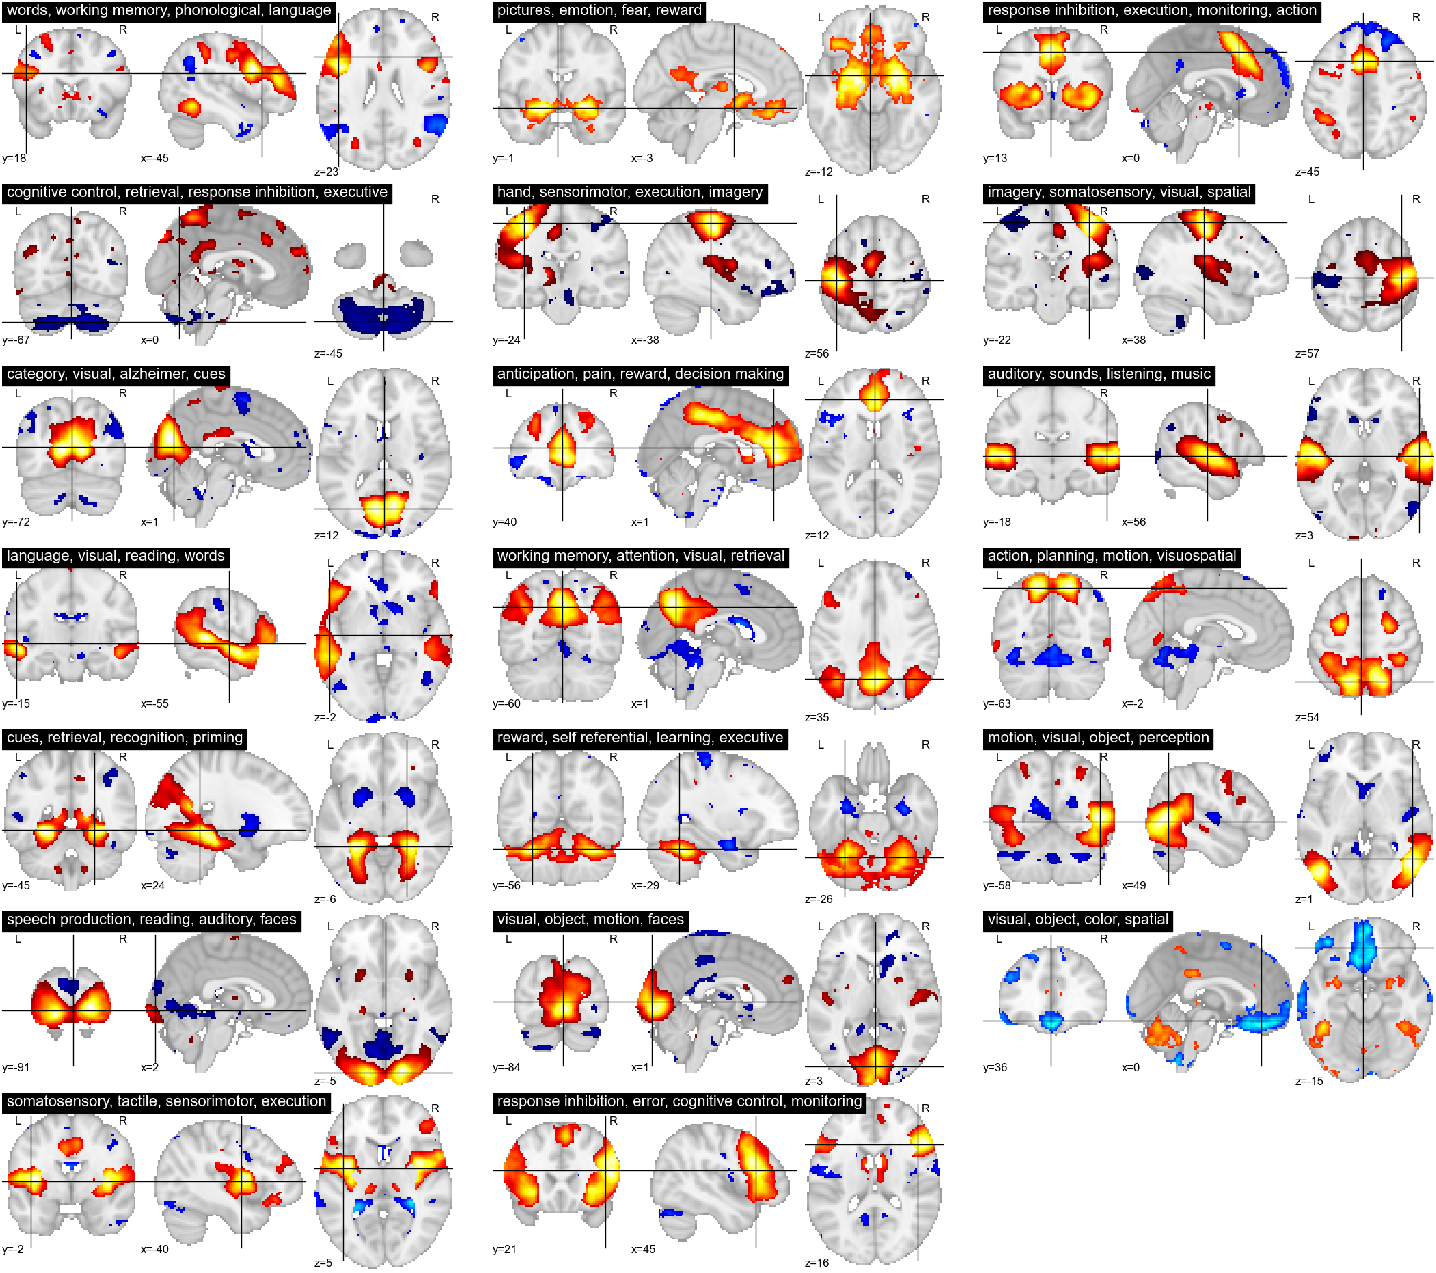
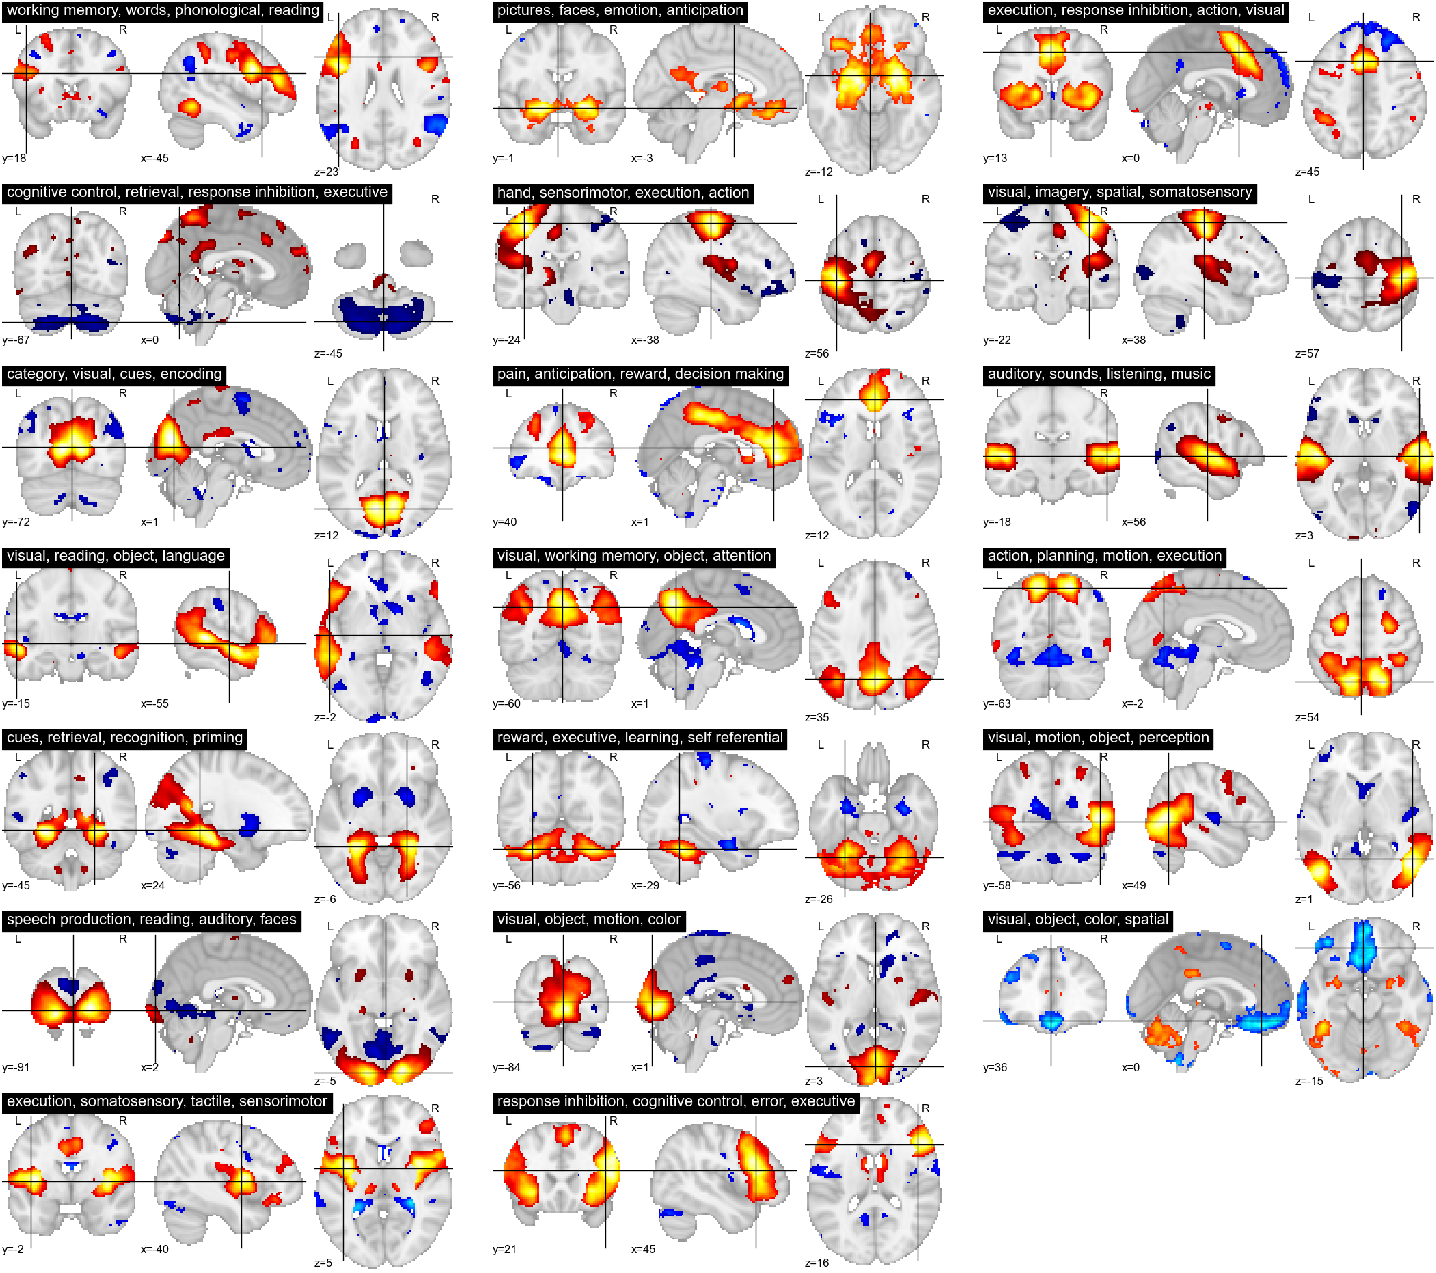
Stat maps for terms, and ICA maps without tf-idf weighting

diff --git a/plot_mean_maps.py b/plot_mean_maps.py
@@ -2,6 +2,7 @@ import os
 
 import pandas as pd
 
+from scipy import stats
 from matplotlib import pyplot as plt
 
 from nilearn.input_data import NiftiMasker
@@ -38,14 +39,34 @@ display.savefig('all.png')
 display.savefig('all.pdf')
 
 for name, term_vector in zip(GROUP_NAMES, term_freq.T):
+    # The mean image
     term_img = masker.inverse_transform(X[term_vector != 0].mean(axis=0))
     term_img.to_filename('%s.nii.gz' % name)
 
+    #display = plot_stat_map(term_img, cut_coords=(-14, 8, 26, 44, 54),
+    #                        colorbar=False, display_mode='z')
+    #display.title('%s: %i maps' % (name, (term_vector != 0).sum()),
+    #              size=17)
+    #display.savefig('%s.png' % name)
+    #display.savefig('%s.pdf' % name)
+
+    # The fraction of activated voxels, in ratio of how often the
+    # corresponding voxels are activated in the full database
+    diff = stats.ttest_ind(X[term_vector != 0],
+                           X[term_vector == 0])[0]
+    term_img = masker.inverse_transform(diff)
+    term_img.to_filename('%s_relative.nii.gz' % name)
+
+    # The threshold of T = 5 corresponds to an FWER correction on a 3x3x3
+    # gm grid.
     display = plot_stat_map(term_img, cut_coords=(-14, 8, 26, 44, 54),
-                            colorbar=False, display_mode='z')
+                            #colorbar=False,
+                            threshold=5.,
+                            display_mode='z',
+                            vmax=12.)
     display.title('%s: %i maps' % (name, (term_vector != 0).sum()),
                   size=17)
-    display.savefig('%s.png' % name)
-    display.savefig('%s.pdf' % name)
+    display.savefig('%s_t_stat.png' % name)
+    display.savefig('%s_t_stat.pdf' % name)
 
 plt.show()

diff --git a/plot_ica.py b/plot_ica.py
@@ -45,12 +45,12 @@ term_matrix = terms.as_matrix()
 # Labels that have a negative correlation are not present in the map
 term_matrix[term_matrix < 0] = 0
 
-# tf-idf like weighting
-idf = term_matrix.sum(axis=0)
-idf[idf == 0] = 1
-# Log transform of the idf
-idf = np.log(idf.sum() / idf)
-term_matrix *= idf
+## tf-idf like weighting
+#idf = term_matrix.sum(axis=0)
+#idf[idf == 0] = 1
+## Log transform of the idf
+#idf = np.log(idf.sum() / idf)
+#term_matrix *= idf
 
 # Don't use the transform method as it centers the data
 ica_terms = np.dot(term_matrix.T, fast_ica.components_.T).T

diff --git a/stat_maps.tex b/stat_maps.tex
@@ -1,0 +1,18 @@
+\documentclass{article}
+\usepackage{graphicx}
+\usepackage[tightpage,active]{preview}
+
+\begin{document}
+\pagestyle{empty}
+
+\begin{preview}
+    \includegraphics[width=.49\linewidth]{audio_t_stat.pdf}%
+    \hfill%
+    \includegraphics[width=.49\linewidth]{visual_t_stat.pdf}
+
+    \includegraphics[width=.49\linewidth]{motor_t_stat.pdf}%
+    \hfill%
+    \includegraphics[width=.49\linewidth]{language_t_stat.pdf}
+
+\end{preview}
+\end{document}
